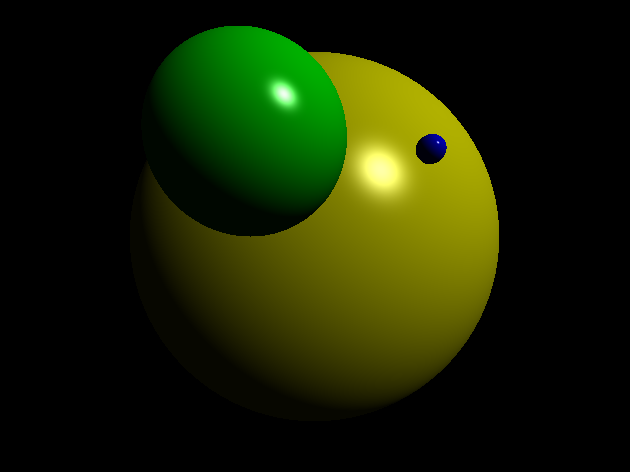
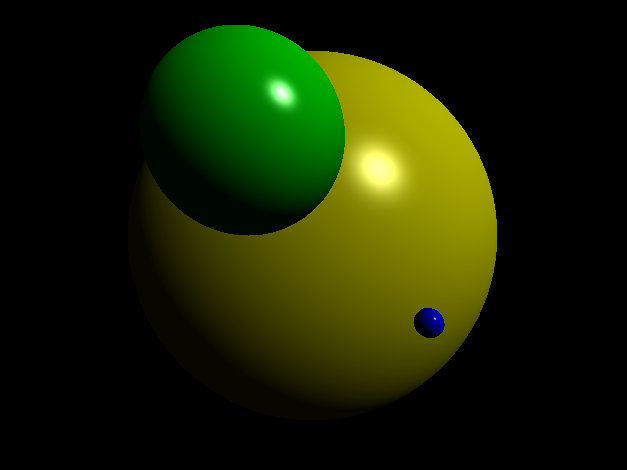
add projected shadow

Changed region(s): [[0.6364, 0.6553, 0.7273, 0.7149], [0.6364, 0.2681, 0.7273, 0.3574], [0.303, 0.0596, 0.3333, 0.0894]]

diff --git a/Raytracer/main.cpp b/Raytracer/main.cpp
@@ -9,7 +9,7 @@
 #define WIDTH 640
 #define HEIGHT 480
 #define MAX_SPHERES 8
-#define MAX_SOURCES 1
+#define MAX_SOURCES 4
 #define PI 3.14159265359
 using namespace std;
 
@@ -23,6 +23,8 @@ Source *source1 = &tabSources[0];
 
 Point obs = {0,0,0};
 double znear = 1;
+
+bool antialiasing = true;
 
 void init()
 {
@@ -47,7 +49,7 @@ void init()
 	nbSpheres++;
 
 	tabSpheres[2].xc = 0.4;
-	tabSpheres[2].yc = 0.3;
+	tabSpheres[2].yc = -0.3;
 	tabSpheres[2].zc = -1.1;
 	tabSpheres[2].r = 0.05;
 	tabSpheres[2].mat.ka = { 0.0,0.0,0.4};
@@ -60,75 +62,12 @@ void init()
 	tabSources[0].Ip = {0.95,0.95,0.95};
 	tabSources[0].pos = {3,3,2};
 	nbSources++;
+
+	//tabSources[1].Ia = {0.1,0.1,0.1};
+	//tabSources[1].Ip = {0.7,0.7,0.7};
+	//tabSources[1].pos = {-0,10,2};
+	//nbSources++;
 }
-
-/*
-void raytrace(Point start, Vector dir, int nb, Intensity it)
-{
-	if(nb == 0)
-	{
-		it = {0,0,0};
-	}else if(! intersect(start, dir, pointI, face))
-	{
-		it = {0,0,0};
-	}else
-	{
-		if(face.ks == 0)
-		{
-			Is = 0;
-		}else
-		{
-			computeReflected(dir,face.normal,r);
-			raytrace(pointI,r,nb-1,Is);
-		}
-
-		if(face.kt == 0)
-		{
-			It = 0;
-		}else
-		{
-			computeTransmitted(dir,face.normal,face.kro,p);
-			raytrace(pointI,p,nb-1,It);
-		}
-
-		I = Ia*face.ka;
-
-		for(int iter=0; iter<nbSources; ++iter)
-		{
-			if(!shadow(pointI,face.normal,dir,j)){
-				//I = I + Idj*(face.kd) ....
-			}
-		}
-		I += face.ks * Is + face.kt * It;
-		if(start != observer)
-		{
-			computeDistance(start,pointI,d);
-			I /= d;
-		}
-		intensite = I;
-
-	}
-}
-
-
-
-
-
-
-void draw()
-{
-	Intensity it;
-	for(int i=0;i<HEIGHT; ++i)
-	{
-		for(int j=0;j<WIDTH; ++j)
-		{
-			Vector direction;
-			Point start;
-			raytrace(start,direction,2,it);
-		}
-	}
-}*/
-
 
 
 bool findNextIntersection(Point start, Vector dir, Point& pt, Face& face)
@@ -156,7 +95,7 @@ bool findNextIntersection(Point start, Vector dir, Point& pt, Face& face)
 				Point center = {sphere->xc,sphere->yc,sphere->zc};
 				Vector normal;
 				normal.fromPoints(center,pt).normalize();
-				face.mat = sphere->mat;
+				face.sphere = sphere;
 				face.normal = normal;
 			}
 		}else if(delta>0)
@@ -178,7 +117,7 @@ bool findNextIntersection(Point start, Vector dir, Point& pt, Face& face)
 					Point center = {sphere->xc,sphere->yc,sphere->zc};
 					Vector normal;
 					normal.fromPoints(center,pt).normalize();
-					face.mat = sphere->mat;
+					face.sphere = sphere;
 					face.normal = normal;
 				}
 			}
@@ -188,7 +127,39 @@ bool findNextIntersection(Point start, Vector dir, Point& pt, Face& face)
 }
 
 
+bool ombre(const Point& start,const Vector& dir,const Face& face, const Source& src)
+{
+	double d_src = dist(start,src.pos);
+	for(int sphereIter = 0; sphereIter<nbSpheres; ++sphereIter)
+	{
+		Sphere *sphere = &tabSpheres[sphereIter];
+		if(face.sphere == sphere)
+			continue;
 
+		double A = dir.x*dir.x + dir.y*dir.y + dir.z*dir.z;
+		double B = 2*(dir.x*(start.x-sphere->xc)+dir.y*(start.y-sphere->yc)+dir.z*(start.z-sphere->zc));
+		double C = (start.x-sphere->xc)*(start.x-sphere->xc)+
+		           (start.y-sphere->yc)*(start.y-sphere->yc)+
+		           (start.z-sphere->zc)*(start.z-sphere->zc)-
+		           sphere->r*sphere->r;
+		double delta = B*B-4*A*C;
+		if(delta<0)
+			continue;
+		else if(delta == 0)
+		{
+			double t = -B / (2*A);
+			if(t>0 && t<d_src)
+				return true;
+		}else
+		{
+			double t1 = (-B-sqrt(delta))/(2*A);
+			double t2 = (-B+sqrt(delta))/(2*A);
+			if((t1>0 && t1<d_src) || (t2>0 && t2<d_src))
+				return true;
+		}
+	}
+	return false;
+}
 
 
 
@@ -206,30 +177,31 @@ void raytrace2(Point start, Vector dir, int nb, Intensity& it)
 			it = {0,0,0};
 		}else
 		{
+
+
 			Intensity temp;
 			Vector Lj, reflected;
 			//ambient only with the first source
-			temp = source1->Ia * face.mat.ka;
+			temp = source1->Ia * face.sphere->mat.ka;
 			// diffuse with all the sources
 			Vector vision;
 			vision.fromPoints(pointI,obs).normalize();
 			for(int srcIter = 0; srcIter<nbSources; ++srcIter)
 			{
 				Lj.fromPoints(pointI,tabSources[srcIter].pos).normalize();
+				if(ombre(pointI,Lj,face,tabSources[srcIter]))
+					continue;
 				double d = dist(tabSources[srcIter].pos,pointI);
-				double fAtt = 1/(0.01*d*d+0.004*d+0.003);
+				double fAtt = 1/(0.01*d*d+0.04*d+0.03);
 				if(fAtt>1) fAtt = 1;
-				temp +=  (tabSources[srcIter].Ip * fAtt * face.mat.kd) * (face.normal * Lj);
+				temp +=  (tabSources[srcIter].Ip * fAtt * face.sphere->mat.kd) * (face.normal * Lj);
 				if(face.normal * Lj >0)
 				{
 					reflected = (face.normal * 2 *(face.normal * Lj)) - Lj;
-					temp += (tabSources[srcIter].Ip * fAtt * face.mat.ks) * pow(reflected*vision,(double)face.mat.shininess);
+					temp += (tabSources[srcIter].Ip * fAtt * face.sphere->mat.ks) * pow(reflected*vision,(double)face.sphere->mat.shininess);
 				}
 			}
 			it = temp;
-			if(it.r>1.0) it.r = 1.0;
-			if(it.g>1.0) it.g = 1.0;
-			if(it.b>1.0) it.b = 1.0;
 		}
 	}
 }
@@ -271,17 +243,41 @@ void draw2(SDL_Surface *screen)
 	{
 		for(int j=0;j<WIDTH; ++j)
 		{
-			direction.x = left + j * stepH;
-			direction.y = top - i * stepV;
-			direction.z = -znear;
+			if(!antialiasing)
+			{
+				direction = {left + j * stepH, top - i * stepV, -znear};
+				direction.normalize();
+				raytrace2(obs,direction,2,it);
 
-			direction.normalize();
-			raytrace2(obs,direction,2,it);
+				setPixel(screen,i,j,floor(it.r*255), floor(it.g*255),floor(it.b*255));
+			}else
+			{	//anti-aliasing
+				double rm=0,gm=0,bm=0;
+				double offset = 0.002;
+				direction = {left + j * stepH, top - i * stepV, -znear};
+				raytrace2(obs,direction,2,it);
+				rm += it.r; gm +=it.g; bm += it.b;
 
-			uint8_t r = (uint8_t)(floor(it.r*255));
-			uint8_t g = (uint8_t)(floor(it.g*255));
-			uint8_t b = (uint8_t)(floor(it.b*255));
-			setPixel(screen,i,j,r,g,b);
+				direction = {left + j * stepH -offset, top - i * stepV, -znear};
+				raytrace2(obs,direction,2,it);
+				rm += it.r; gm +=it.g; bm += it.b;
+
+				direction = {left + j * stepH + offset, top - i * stepV, -znear};
+				raytrace2(obs,direction,2,it);
+				rm += it.r; gm +=it.g; bm += it.b;
+
+				direction = {left + j * stepH, top - i * stepV - offset, -znear};
+				raytrace2(obs,direction,2,it);
+				rm += it.r; gm +=it.g; bm += it.b;
+
+				direction = {left + j * stepH, top - i * stepV + offset, -znear};
+				raytrace2(obs,direction,2,it);
+				rm += it.r; gm +=it.g; bm += it.b;
+
+				rm /= 5; gm /= 5; bm /= 5;
+				setPixel(screen,i,j,floor(rm*255), floor(gm*255),floor(bm*255));
+
+			}
 		}
 	}
 	SDL_UnlockSurface(screen);

diff --git a/Raytracer/raytracer.h b/Raytracer/raytracer.h
@@ -58,7 +58,7 @@ struct Sphere{
 
 struct Face{	//represents an intersection between an object and a ray
 	Vector normal;
-	Material mat;
+	Sphere* sphere;
 };
 
 struct Source{

diff --git a/README.md b/README.md
@@ -5,3 +5,13 @@ Raytracer
 ####Phong illumination model
 ![alt tag](phong.png?raw=true "Raytracer - Phong model")
 
+
+####Phong with anti-aliasing
+![alt tag](phong_antialiasing.png?raw=true "Raytracer - Phong model")
+
+
+####Phong with projected shadows
+![alt tag](projected_shadow.png?raw=true "Raytracer - Phong model")
+
+
+
